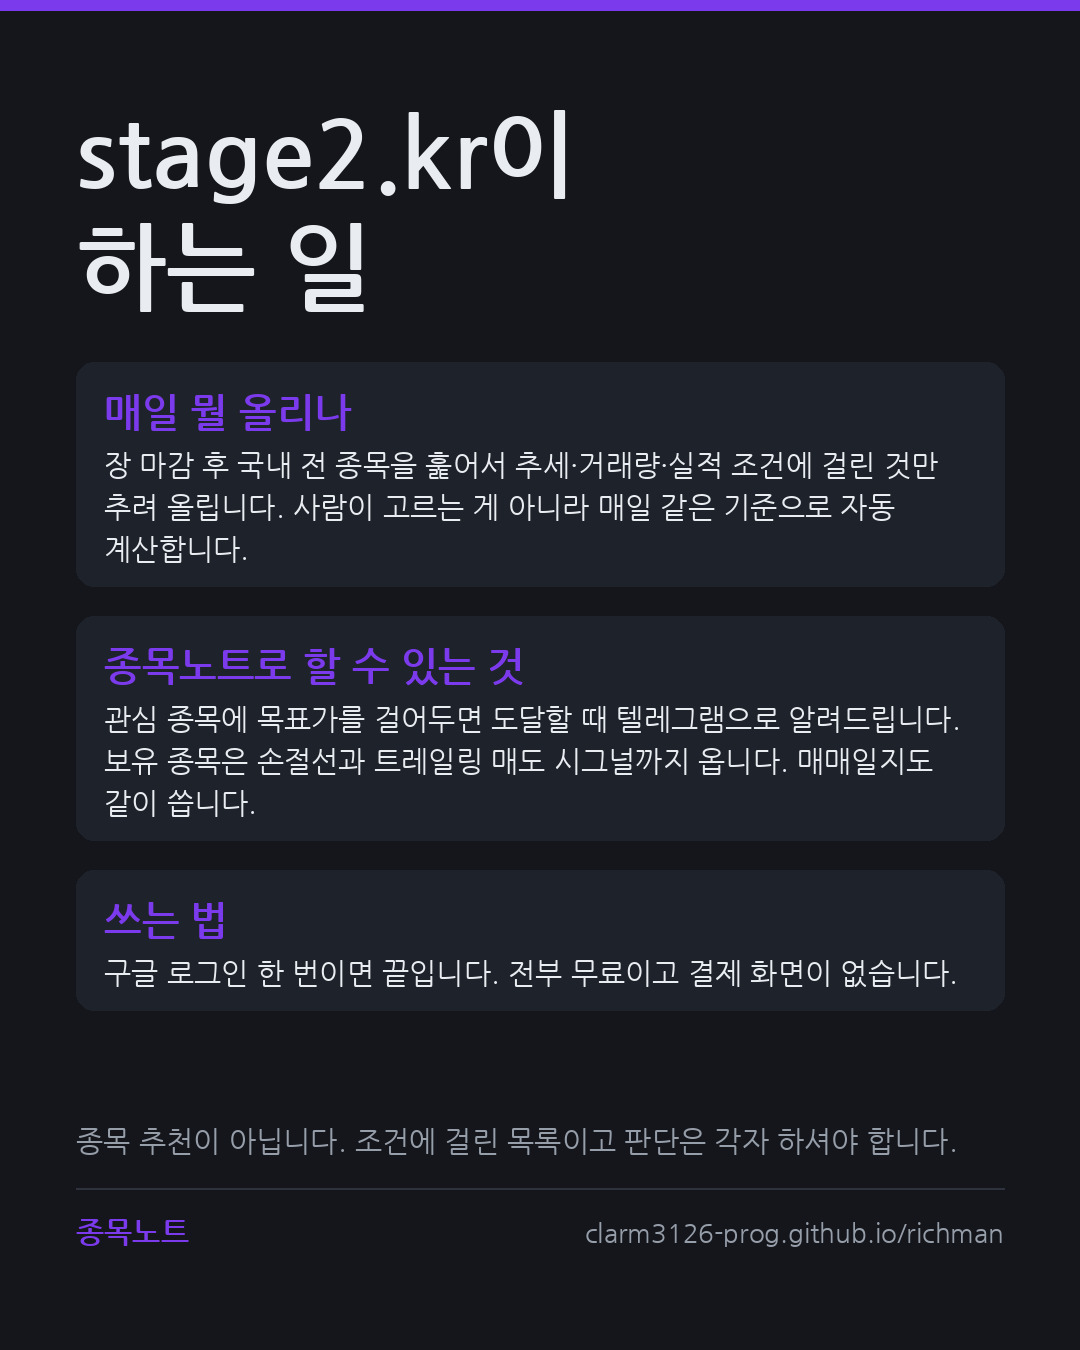
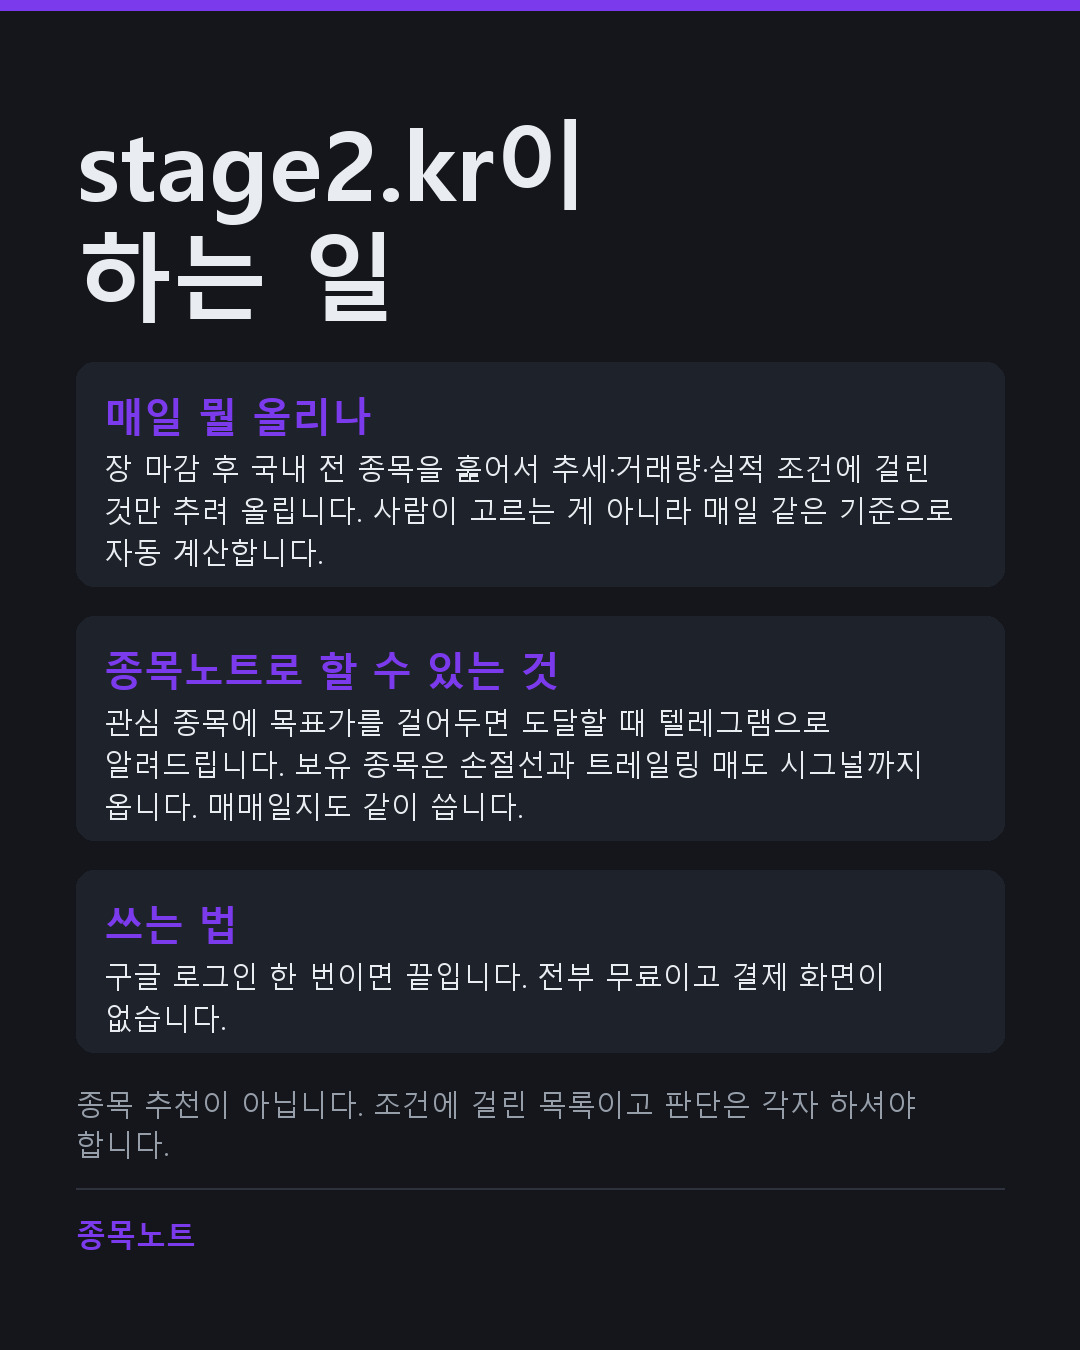
feat: 블로그 매매 기록 5편을 큐에 넣고 카드에서 주소를 뺀다
네이버 블로그에 써둔 매매 기록을 종목 하나씩 옮겨 쓰레드와 인스타에
올린다. 금요일마다 한 편씩 나가도록 after 날짜를 뒀고, 사이 날짜에는
평소대로 스크리너 자동 글이 올라간다.

- content/posts.yml: 대원전선 / 태성 / 에스오에스랩 / 리가켐바이오 /
  피에스케이홀딩스 5편. 전부 쓰레드 500자 안에 들어간다.
- scripts/make_blog_cards.py: 인스타용 요약 카드 생성. 순위·등락률용인
  render_card 대신 소개 카드 형식을 쓴다. 파일명에 날짜를 넣지 않는데,
  prune_cards()가 앞 10글자를 날짜로 읽어서 발행일이 한 달 뒤인 카드를
  먼저 지워버리면 인스타가 이미지를 못 받아 발행이 실패한다.
- 수동 큐 글도 인스타에는 해시태그를 붙인다. 중복 판정 키는 태그를 뺀
  본문으로 잡아, 설정에서 태그를 바꿔도 이미 올린 글이 다시 올라가지 않는다.

카드에서 주소를 뺀다 (블로그 카드, 매일 나가는 종목 카드, 소개 카드).
링크는 댓글에 반응해서 보내는 구조인데 카드에 주소가 보이면 댓글을 달
이유가 없어진다. 인스타는 캡션 링크가 클릭되지도 않아서 주소를 노출해도
유입은 안 생기고 댓글만 줄어든다.

글 끝에 의견을 묻는 질문을 넣었다. 알고리즘은 링크 요청 댓글과 의견
댓글을 구분하지 않으므로 댓글 총량을 늘리는 쪽이 낫다. 대신 link_request
키워드에서 "저요" "나도" "저도" "궁금"을 뺐다. 그대로 두면 "저도
그랬어요" 같은 답글에 "디엠 드릴게요"가 나가고, 쓰레드는 DM을 직접
보내야 해서 헛일이 쌓인다.

diff --git a/scripts/make_blog_cards.py b/scripts/make_blog_cards.py
@@ -1,0 +1,145 @@
+#!/usr/bin/env python3
+"""
+블로그 매매 기록 카드 생성.
+
+content/posts.yml 의 수동 큐에 들어 있는 글은 인스타에도 올라가는데,
+인스타는 이미지가 없으면 게시가 안 된다. 자동 글은 스크리닝 결과로
+카드를 그리지만 이 글들은 데이터가 아니라 이야기라서, 소개 카드와
+같은 형식(제목 + 구획 + 꼬리말)으로 그린다.
+
+한 번 만들어 저장소에 커밋해두면 발행일까지 그대로 쓰인다.
+문구를 고치고 싶으면 아래 CARDS를 수정하고 다시 실행하면 된다.
+
+파일명에 날짜를 넣지 않는다. card.prune_cards()가 앞 10글자를 날짜로
+읽어서 오래된 카드를 지우는데, 발행일이 한 달 뒤인 카드가 먼저 지워지면
+인스타가 이미지를 못 받아 발행이 실패한다.
+
+사용:
+  python scripts/make_blog_cards.py
+"""
+import sys
+from pathlib import Path
+
+sys.path.insert(0, str(Path(__file__).parent))
+
+from social import card, config  # noqa: E402
+
+FOOTER = "종목 추천이 아닙니다. 지난 제 매매 기록입니다."
+
+CARDS = {
+    "blog-daewon.jpg": {
+        "headline": ["대원전선", "11일 만에 정리"],
+        "sections": [
+            {
+                "heading": "매수 · 8,140원",
+                "body": "1년 횡보 뒤 거래량 실린 신고가 돌파. 전력 케이블 교체 주기와 "
+                        "데이터센터 증설, 구리값 상승이 겹치는 자리.",
+            },
+            {
+                "heading": "매도 · 17,000~18,000원",
+                "body": "투자경고 지정. 7,000원대에서 130% 오른 과매수 구간이었고, "
+                        "경고 종목은 3~4일 안에 급락하는 경우가 많았다.",
+            },
+            {
+                "heading": "그 뒤",
+                "body": "20,300원을 찍고 14,000원대까지 하락. 감보다 규칙이 나았다.",
+            },
+        ],
+        "footer": FOOTER,
+    },
+    "blog-taesung.jpg": {
+        "headline": ["태성", "팔고 나서 400%"],
+        "sections": [
+            {
+                "heading": "매수",
+                "body": "저점에서 긴 횡보, 거래량 터지며 상승. 매집 구간이라고 판단.",
+            },
+            {
+                "heading": "매도",
+                "body": "200% 오른 뒤 힘이 빠졌다고 보고, 더 좋아 보이는 종목으로 "
+                        "갈아타려고 매도.",
+            },
+            {
+                "heading": "무엇이 문제였나",
+                "body": "상방이 막 열린 자리였고 조정에도 거래량이 없었다. "
+                        "추세가 끊긴 게 아니라 내 인내가 끊겼다.",
+            },
+        ],
+        "footer": FOOTER,
+    },
+    "blog-soslab.jpg": {
+        "headline": ["에스오에스랩", "코인 보고 판 매매"],
+        "sections": [
+            {
+                "heading": "매수",
+                "body": "하락 추세를 벗어나 상승 초입이라고 판단.",
+            },
+            {
+                "heading": "매도",
+                "body": "지루한 횡보 중 주변의 코인 수익을 보고 1만원 구간에서 청산.",
+            },
+            {
+                "heading": "무엇이 문제였나",
+                "body": "판 뒤로 30% 더 올랐다. 매도 버튼을 누르게 한 건 차트가 아니라 "
+                        "남의 수익률이었다.",
+            },
+        ],
+        "footer": FOOTER,
+    },
+    "blog-ligachem.jpg": {
+        "headline": ["리가켐바이오", "조금 먹고 나온 매매"],
+        "sections": [
+            {
+                "heading": "매수",
+                "body": "긴 횡보 뒤 추세 전환. 지지 자리에서 반등을 확인하고 매수.",
+            },
+            {
+                "heading": "버틴 구간",
+                "body": "조정을 맞았지만 거래량이 안 터져 계속 홀딩. 여기까진 원칙대로.",
+            },
+            {
+                "heading": "무엇이 문제였나",
+                "body": "매물대에 한 번 막히자 지루함이 겹쳐 급하게 매도. "
+                        "거래량도 차트도 안 봤다.",
+            },
+        ],
+        "footer": FOOTER,
+    },
+    "blog-pskholdings.jpg": {
+        "headline": ["피에스케이홀딩스", "아직 보유 중"],
+        "sections": [
+            {
+                "heading": "매수 근거",
+                "body": "삼성·하이닉스 납품 반도체 장비주. 전 고점 돌파 후 신고가 갱신, "
+                        "3년 연속 순이익 증가.",
+            },
+            {
+                "heading": "달라진 것",
+                "body": "실패한 매매를 하나씩 적고 나서야 문제가 보였다. "
+                        "추세가 깨져서 판 적은 한 번도 없었다.",
+            },
+            {
+                "heading": "지금",
+                "body": "살 때 정한 기준대로 보유 중. 안정적인 수익권.",
+            },
+        ],
+        "footer": "종목 추천이 아닙니다. 2026년 2월 매수 후 보유 중입니다.",
+    },
+}
+
+
+def main():
+    cfg = config.load_config()
+    link = cfg.get("link") or {}
+    brand = link.get("label", "종목노트")
+
+    # url을 비워 넘겨 꼬리말의 주소를 뺀다.
+    # 이 카드들은 링크로 유도하는 글이 아니라 매매 기록이라 주소가 필요 없다.
+    for name, spec in CARDS.items():
+        rel = f"assets/cards/{name}"
+        card.render_about_card(spec, config.ROOT / rel, brand=brand, url="")
+        print(f"카드 생성: {rel}")
+
+
+if __name__ == "__main__":
+    main()

diff --git a/scripts/social_post.py b/scripts/social_post.py
@@ -135,12 +135,19 @@ def prepare(dry_run=False, only=None, force=False):
     if manual:
         text = manual["text"].strip()
         targets = [p for p in (manual.get("platforms") or platforms) if p in platforms]
+        # 인스타는 해시태그로 도달이 갈리므로 자동 글과 같은 태그를 붙인다.
+        # key는 태그를 뺀 본문으로 잡아야 설정에서 태그를 바꿔도 이미 올린
+        # 글이 다시 올라가지 않는다.
+        tags = " ".join(post_cfg.get("hashtags") or [])
         plan = {
             "source": "manual",
             "kind": "manual",
             "key": text_key(text),
             "platforms": targets,
-            "texts": {p: text for p in targets},
+            "texts": {
+                p: (f"{text}\n\n{tags}" if p == "instagram" and tags else text)
+                for p in targets
+            },
             "image_rels": _as_list(manual.get("image")),
         }
         print(f"수동 큐 사용: {text[:40]}...")
@@ -163,11 +170,15 @@ def prepare(dry_run=False, only=None, force=False):
 
         if "instagram" in platforms:
             brand = link_cfg.get("label", "종목노트")
-            url = link_cfg.get("url", "")
+
+            # 카드에는 주소를 찍지 않는다 (url="").
+            # 링크는 댓글에 반응해서 보내는 구조인데, 카드에 주소가 보이면
+            # 댓글을 달 이유가 없어진다. 인스타는 캡션 링크가 클릭되지도
+            # 않아서 주소를 노출해도 유입은 안 생기고 댓글만 줄어든다.
 
             # 1번째 장: 그날의 종목 카드
             rel = "assets/cards/{}-{}.jpg".format(today, post["kind"])
-            card.render_card(post, config.ROOT / rel, brand=brand, url=url)
+            card.render_card(post, config.ROOT / rel, brand=brand, url="")
             plan["image_rels"].append(rel)
             print(f"카드 생성: {rel}")
 
@@ -177,7 +188,7 @@ def prepare(dry_run=False, only=None, force=False):
             if about:
                 about_rel = "assets/cards/about.jpg"
                 card.render_about_card(
-                    about, config.ROOT / about_rel, brand=brand, url=url
+                    about, config.ROOT / about_rel, brand=brand, url=""
                 )
                 plan["image_rels"].append(about_rel)
                 print(f"소개 카드 생성: {about_rel}")
